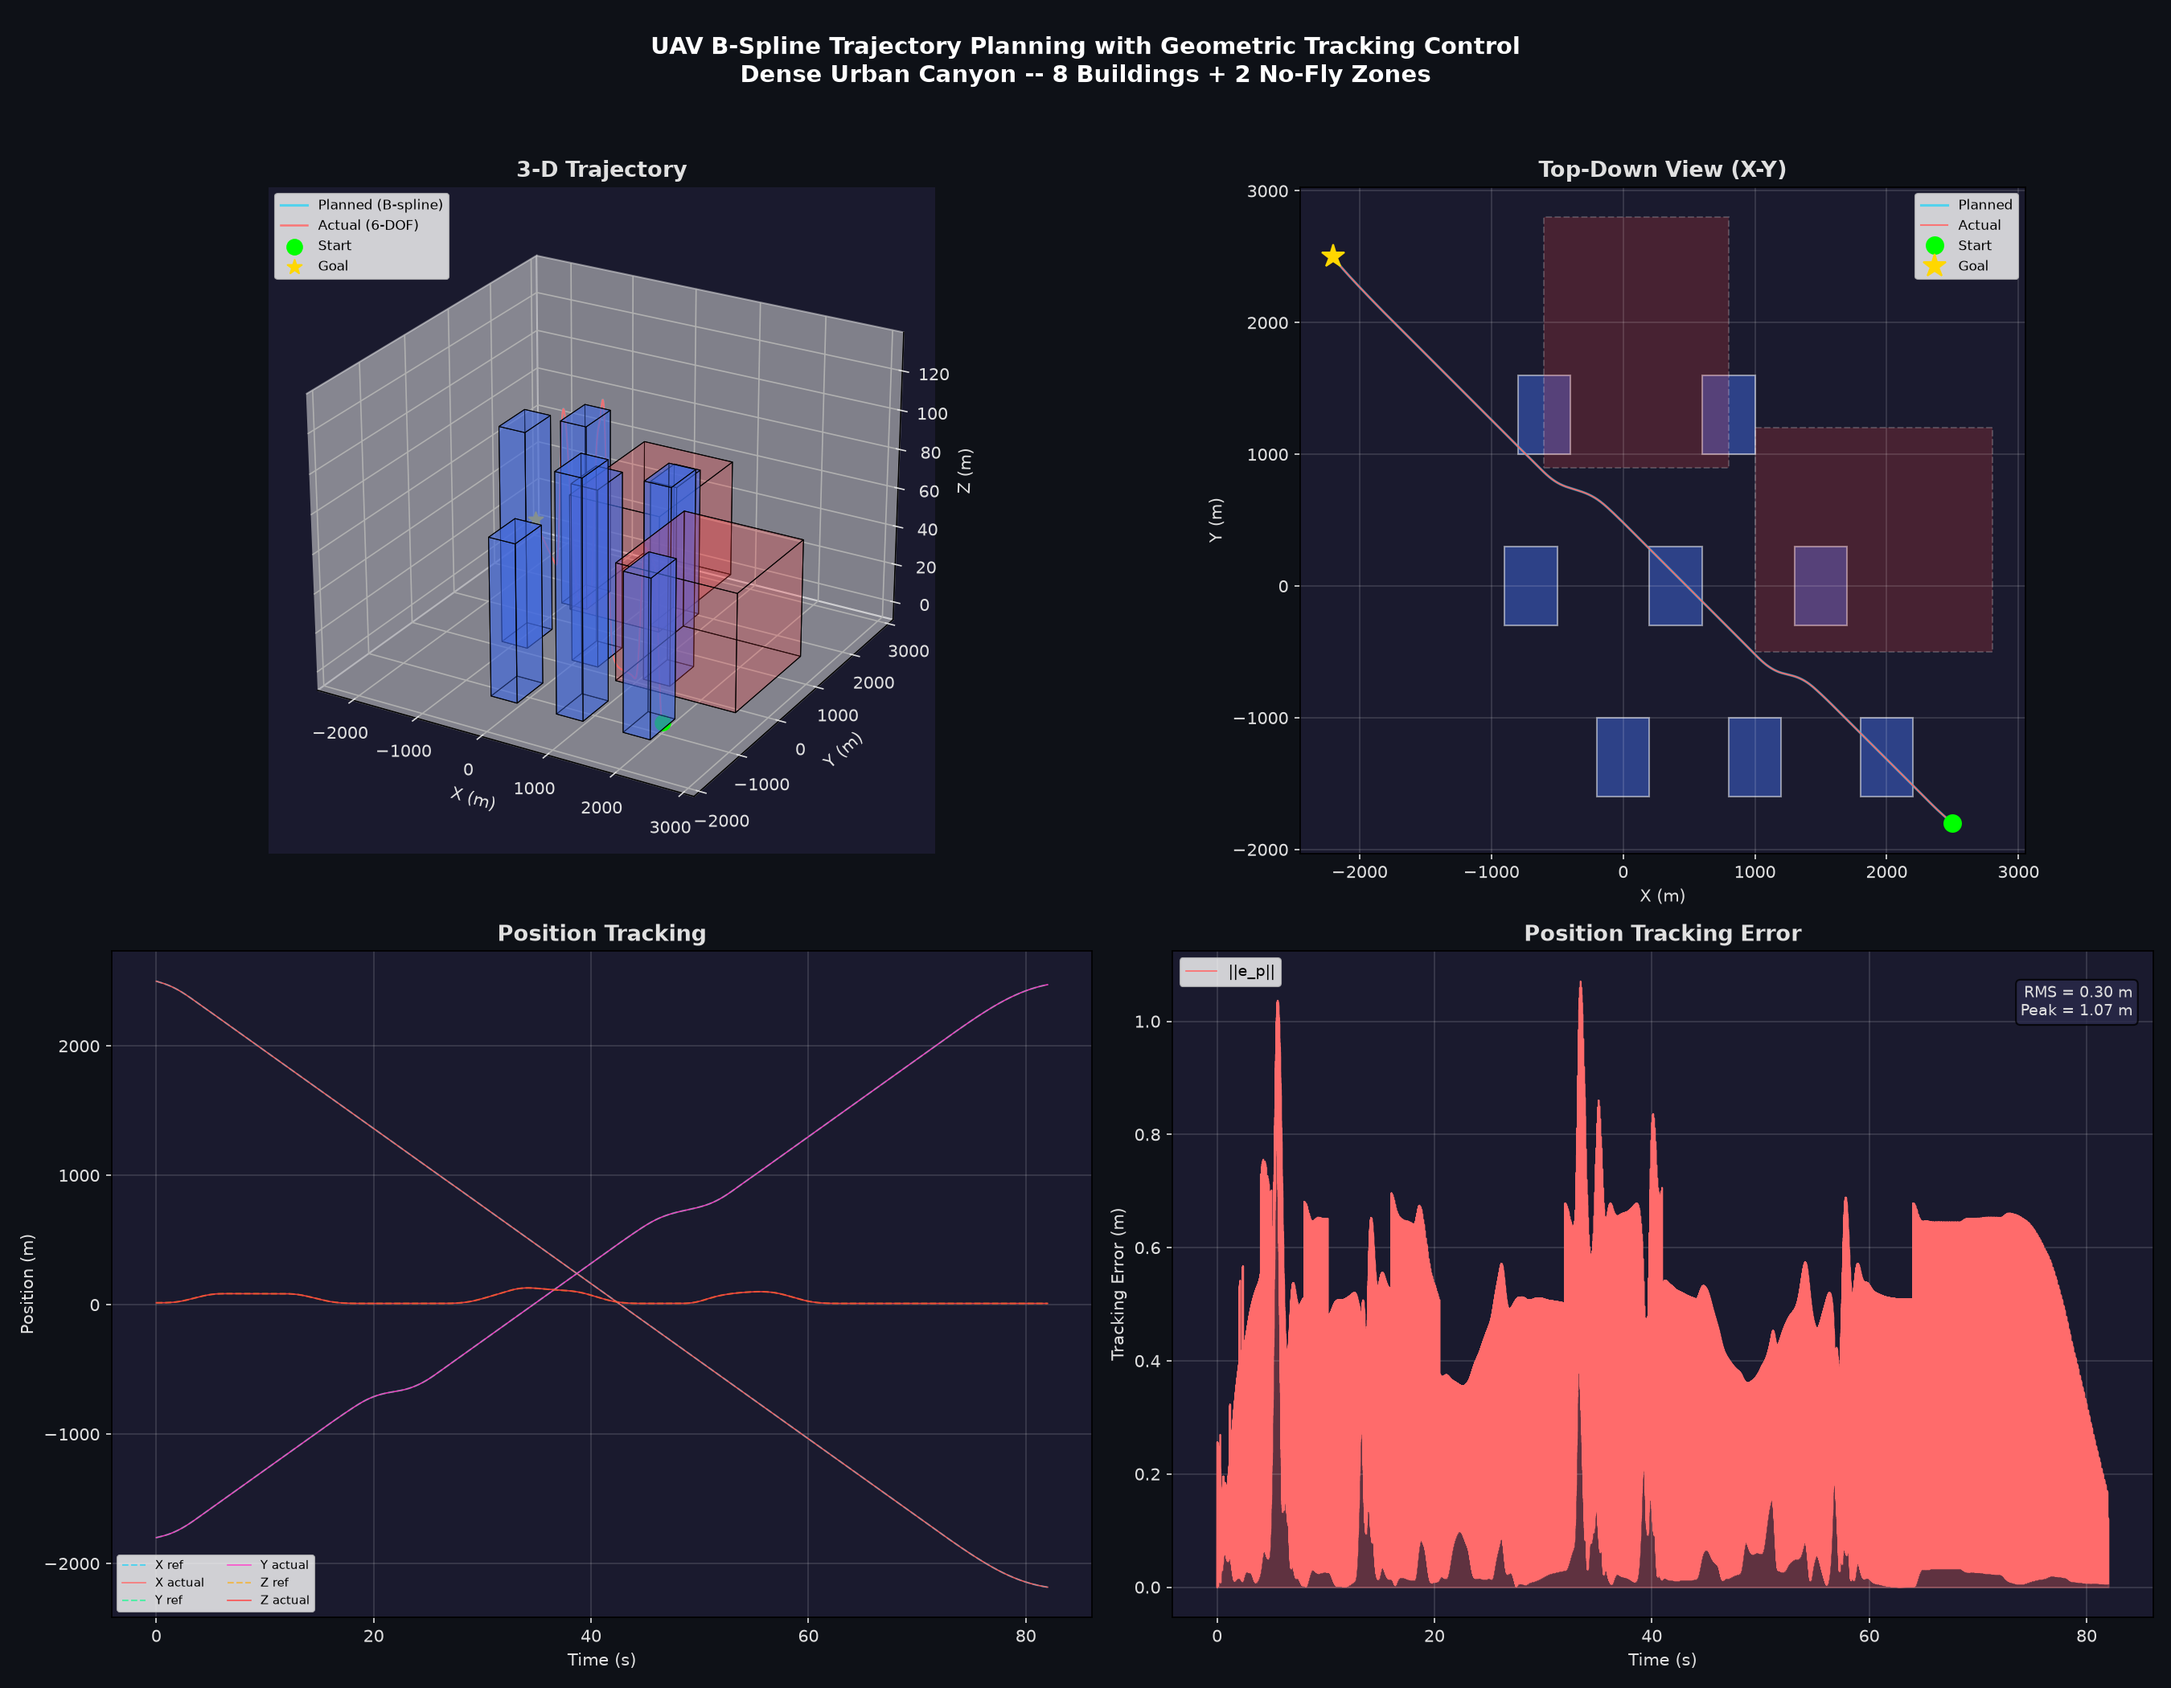
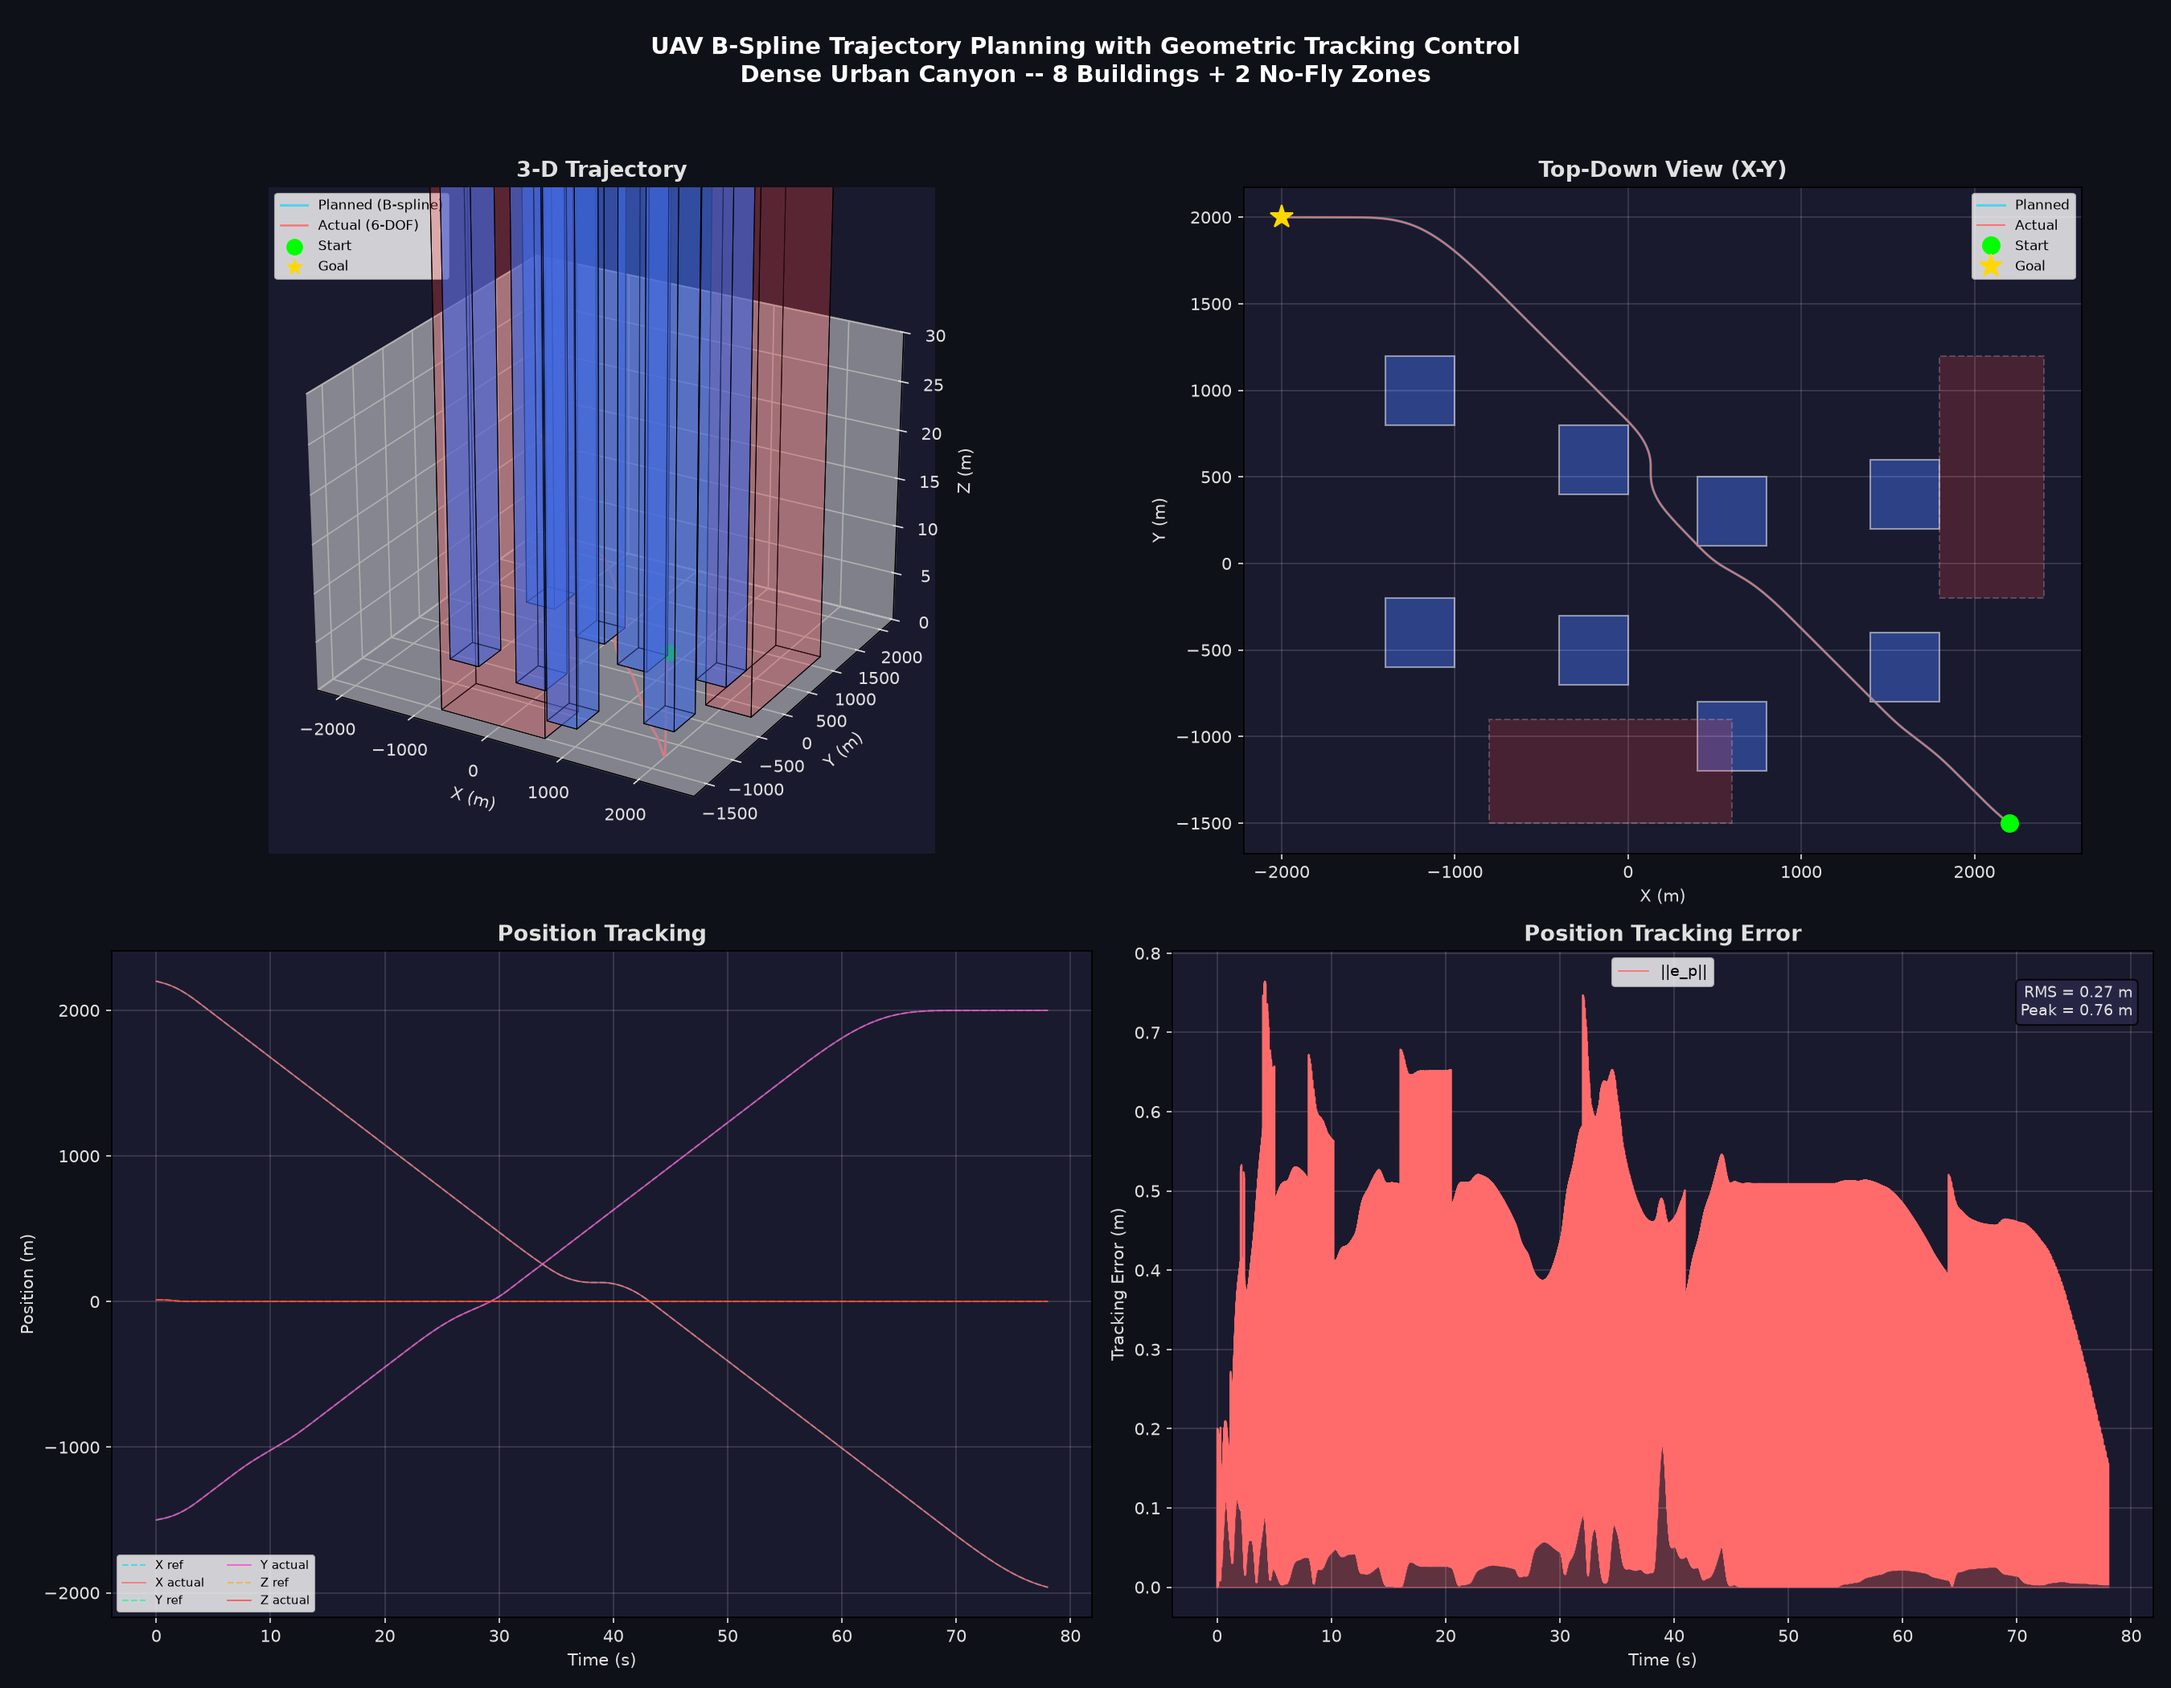
improved animation

diff --git a/scenario.py b/scenario.py
@@ -1,49 +1,64 @@
 """
 Scenario Definition
 ===================
-All environment parameters (start, goal, obstacles, no-fly zones)
-are defined here so they are shared between simulation.py and visualizer.py.
+Urban Canyon -- Corridor Navigation Scenario
 
-Scenario: Dense Urban Canyon
-  - A grid of 8 tall buildings the drone must weave through
-  - 2 no-fly zones (restricted airspace corridors)
-  - Drone must also vary altitude to clear a low bridge obstacle
-  - Start: [2500, -1800, 15]   Goal: [-2200, 2500, 10]
+Key design principles:
+  - All buildings TALLER than z_max (25m ceiling) so the drone CANNOT fly over
+  - Buildings arranged as a chicane/slalom course forcing lateral weaving
+  - Two no-fly zones create additional lateral pressure
+  - Start: [2200, -1500, 12]   Goal: [-2000, 2000, 12]
+
+This forces the planner to solve a genuine 2D lateral maze, demonstrating
+the disjunctive programming obstacle avoidance clearly.
 """
 import numpy as np
 
 
+# Shared altitude ceiling -- must match planner z_max
+Z_CEILING = 25.0   # metres
+
+
 def build_scenario(planner):
     """
-    Add all obstacles and no-fly zones to a planner instance.
+    Add all obstacles and no-fly zones.
     Returns (x_s, v_s, a_s, x_f).
     """
 
     # ---------- Start / Goal ----------
-    x_s = np.array([ 2500.0, -1800.0, 15.0])
-    v_s = np.array([-25.0,    20.0,    0.0])
+    x_s = np.array([ 2200.0, -1500.0, 12.0])
+    v_s = np.array([-20.0,    15.0,    0.0])
     a_s = np.array([  0.0,     0.0,    0.0])
-    x_f = np.array([-2200.0,  2500.0, 10.0])
+    x_f = np.array([-2000.0,  2000.0, 12.0])
 
-    # ---------- City Block: 8 Tall Buildings ----------
-    # Row 1 (south side)
-    planner.add_cuboid_obstacle(1800, 2200, -1600, -1000, 0, 80,  eta=5.0)  # B1
-    planner.add_cuboid_obstacle( 800, 1200, -1600, -1000, 0, 120, eta=5.0)  # B2 (taller)
-    planner.add_cuboid_obstacle(-200,  200, -1600, -1000, 0, 80,  eta=5.0)  # B3
+    bh = 200.0   # building height -- well above z_ceiling (25m)
+    e  = 10.0    # safety eta (standoff distance around each building)
 
-    # Row 2 (middle)
-    planner.add_cuboid_obstacle(1300, 1700,  -300,   300, 0, 100, eta=5.0)  # B4
-    planner.add_cuboid_obstacle( 200,  600,  -300,   300, 0, 90,  eta=5.0)  # B5
-    planner.add_cuboid_obstacle(-900, -500,  -300,   300, 0, 110, eta=5.0)  # B6 (tallest)
+    # ---------- Chicane layout ----------
+    # The buildings are deliberately arranged in pairs that create narrow
+    # lateral gaps (~300-400 m wide) the drone must thread through.
+    # All buildings are 400x400 m in footprint.
 
-    # Row 3 (north side)
-    planner.add_cuboid_obstacle( 600, 1000,  1000,  1600, 0, 75,  eta=5.0)  # B7
-    planner.add_cuboid_obstacle(-800, -400,  1000,  1600, 0, 95,  eta=5.0)  # B8
+    # Pair 1 -- forces the drone to pass SOUTH of centre
+    planner.add_cuboid_obstacle( 1400,  1800,  -800,  -400, 0, bh, eta=e)   # C1a (north block)
+    planner.add_cuboid_obstacle( 1400,  1800,   200,   600, 0, bh, eta=e)   # C1b (south block)
 
-    # ---------- No-Fly Zones (restricted corridors) ----------
-    # Corridor 1: covers the eastern half broadly
-    planner.add_no_fly_zone(1000, 2800, -500, 1200, gamma=20.0)
-    # Corridor 2: covers the central-north area
-    planner.add_no_fly_zone(-600,  800,  900, 2800, gamma=20.0)
+    # Pair 2 -- forces the drone to pass NORTH of centre
+    planner.add_cuboid_obstacle(  400,   800, -1200,  -800, 0, bh, eta=e)   # C2a (south block)
+    planner.add_cuboid_obstacle(  400,   800,   100,   500, 0, bh, eta=e)   # C2b (north block)
+
+    # Pair 3 -- diagonal chicane, forces diagonal crossing
+    planner.add_cuboid_obstacle( -400,     0,  -700,  -300, 0, bh, eta=e)   # C3a
+    planner.add_cuboid_obstacle( -400,     0,   400,   800, 0, bh, eta=e)   # C3b
+
+    # Pair 4 -- final approach gate
+    planner.add_cuboid_obstacle(-1400, -1000,  -600,  -200, 0, bh, eta=e)   # C4a
+    planner.add_cuboid_obstacle(-1400, -1000,   800,  1200, 0, bh, eta=e)   # C4b
+
+    # ---------- No-Fly Zones (restrict upper approach options) ----------
+    # NFZ1: blocks the northern shortcut
+    planner.add_no_fly_zone(1800, 2400, -200, 1200, gamma=15.0)
+    # NFZ2: blocks the southern shortcut in mid-field
+    planner.add_no_fly_zone(-800,  600, -1500, -900, gamma=15.0)
 
     return x_s, v_s, a_s, x_f

diff --git a/planner_obstacles.py b/planner_obstacles.py
@@ -5,7 +5,7 @@ from bspline_utils import get_bspline_matrices
 import time
 
 class UAVPlannerMILP:
-    def __init__(self, h=10, ts=1.0):
+    def __init__(self, h=10, ts=1.0, z_max=25.0):
         self.k = 4
         self.h = h
         self.ts = ts
@@ -16,10 +16,11 @@ class UAVPlannerMILP:
         
         self.v_max = 60.0
         self.a_max = 14.715
+        self.z_max = z_max        # hard ceiling altitude (m)
         
         self.w1 = 1.0    # Trajectory length weight
         self.w2 = 10.0   # Target approach weight
-        self.w3 = 0.05   # Altitude weight
+        self.w3 = 0.3    # Altitude penalty (ceiling constraint handles building avoidance)
         self.w4 = 0.1    # Active knots penalty (J3) weight
         
         # Obstacles
@@ -55,8 +56,9 @@ class UAVPlannerMILP:
             constraints += [A[i, :] <= self.a_max]
             constraints += [A[i, :] >= -self.a_max]
             
-        # Z constraint (flat terrain avoidance, kappa = 1.0)
+        # Z constraint: floor=1m, ceiling=z_max (forces lateral avoidance of tall buildings)
         constraints += [X[:, 2] >= 1.0]
+        constraints += [X[:, 2] <= self.z_max]
         
         # Disjunctive constraints for 3D obstacles
         for obs in self.obstacles:

diff --git a/visualizer.py b/visualizer.py
@@ -74,7 +74,7 @@ def main():
     # ------------------------------------------------------------------- #
     print("\n[Phase 1] Pre-computing Receding-Horizon trajectory ...")
     t0 = time.time()
-    planner = UAVPlannerMILP(h=10, ts=1.0)
+    planner = UAVPlannerMILP(h=10, ts=1.0, z_max=25.0)
     x_s, v_s, a_s, x_f = build_scenario(planner)
     ref_t, ref_pos, ref_vel, ref_acc, _ = precompute_rhc_trajectory(
         planner, x_s, v_s, a_s, x_f,
@@ -170,7 +170,7 @@ def main():
     xlo, xhi = min(all_x)-200, max(all_x)+200
     ylo, yhi = min(all_y)-200, max(all_y)+200
 
-    ax3d.set_xlim(xlo, xhi); ax3d.set_ylim(ylo, yhi); ax3d.set_zlim(0, 150)
+    ax3d.set_xlim(xlo, xhi); ax3d.set_ylim(ylo, yhi); ax3d.set_zlim(0, 50)
     ax3d.set_xlabel('X (m)', color=C_TXT, fontsize=9)
     ax3d.set_ylabel('Y (m)', color=C_TXT, fontsize=9)
     ax3d.set_zlabel('Z (m)', color=C_TXT, fontsize=9)

diff --git a/simulation.py b/simulation.py
@@ -76,6 +76,7 @@ def create_figure(ref_t, ref_pos, ref_vel, ref_acc,
     ax3d.set_xlabel('X (m)', color=C_TXT)
     ax3d.set_ylabel('Y (m)', color=C_TXT)
     ax3d.set_zlabel('Z (m)', color=C_TXT)
+    ax3d.set_zlim(0, 30)
     ax3d.set_title('3-D Trajectory', color=C_TXT, fontsize=13, fontweight='bold')
     ax3d.legend(fontsize=8, loc='upper left')
     ax3d.view_init(elev=25, azim=-60)
@@ -162,7 +163,7 @@ def main():
     print("  Scenario: Dense Urban Canyon (8 buildings, 2 no-fly zones)")
     print("=" * 65)
 
-    planner = UAVPlannerMILP(h=10, ts=1.0)
+    planner = UAVPlannerMILP(h=10, ts=1.0, z_max=25.0)
     x_s, v_s, a_s, x_f = build_scenario(planner)
 
     # Phase 1: RHC trajectory
